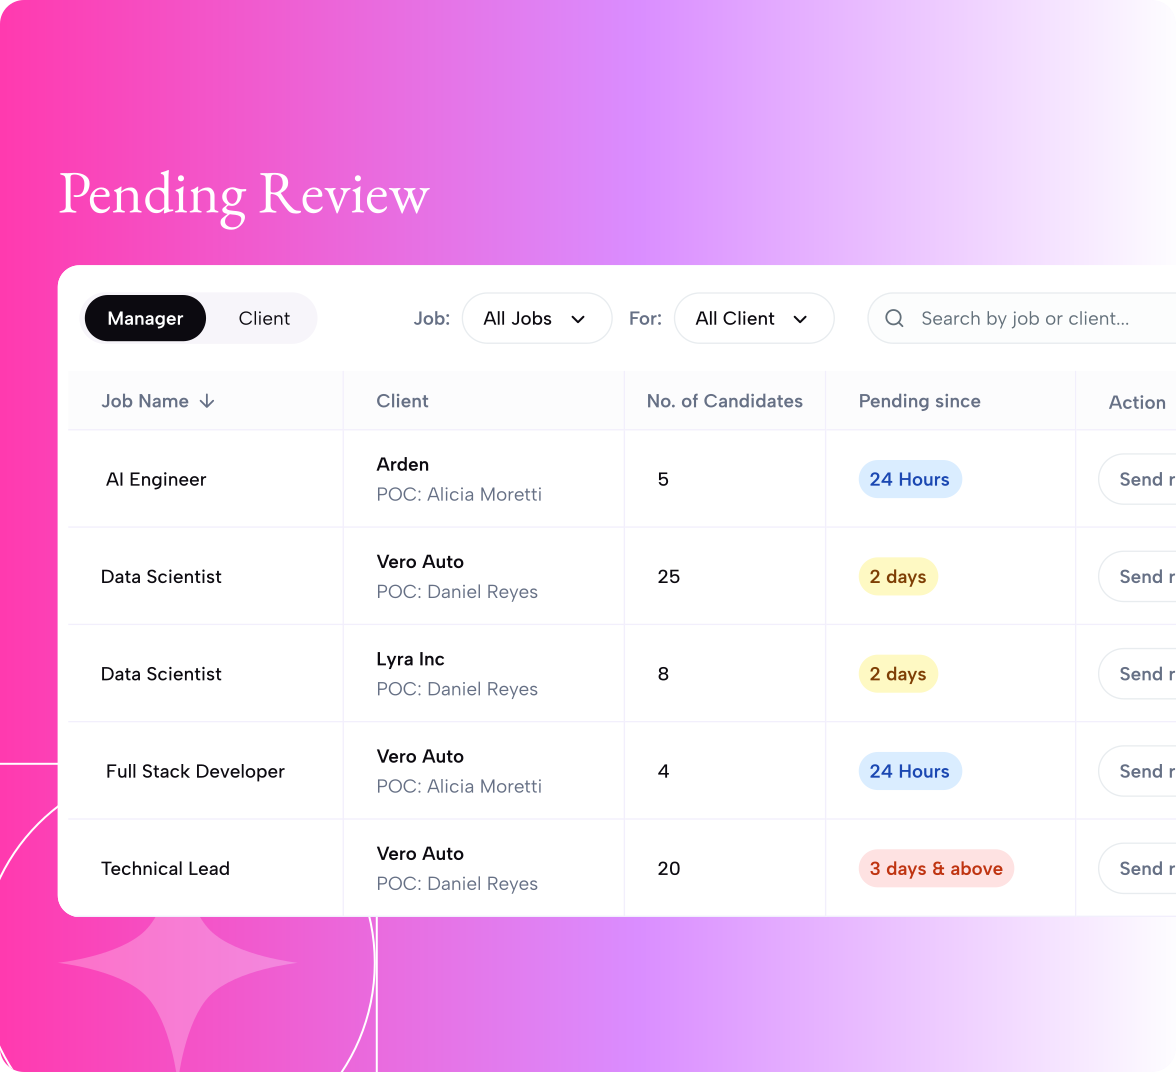
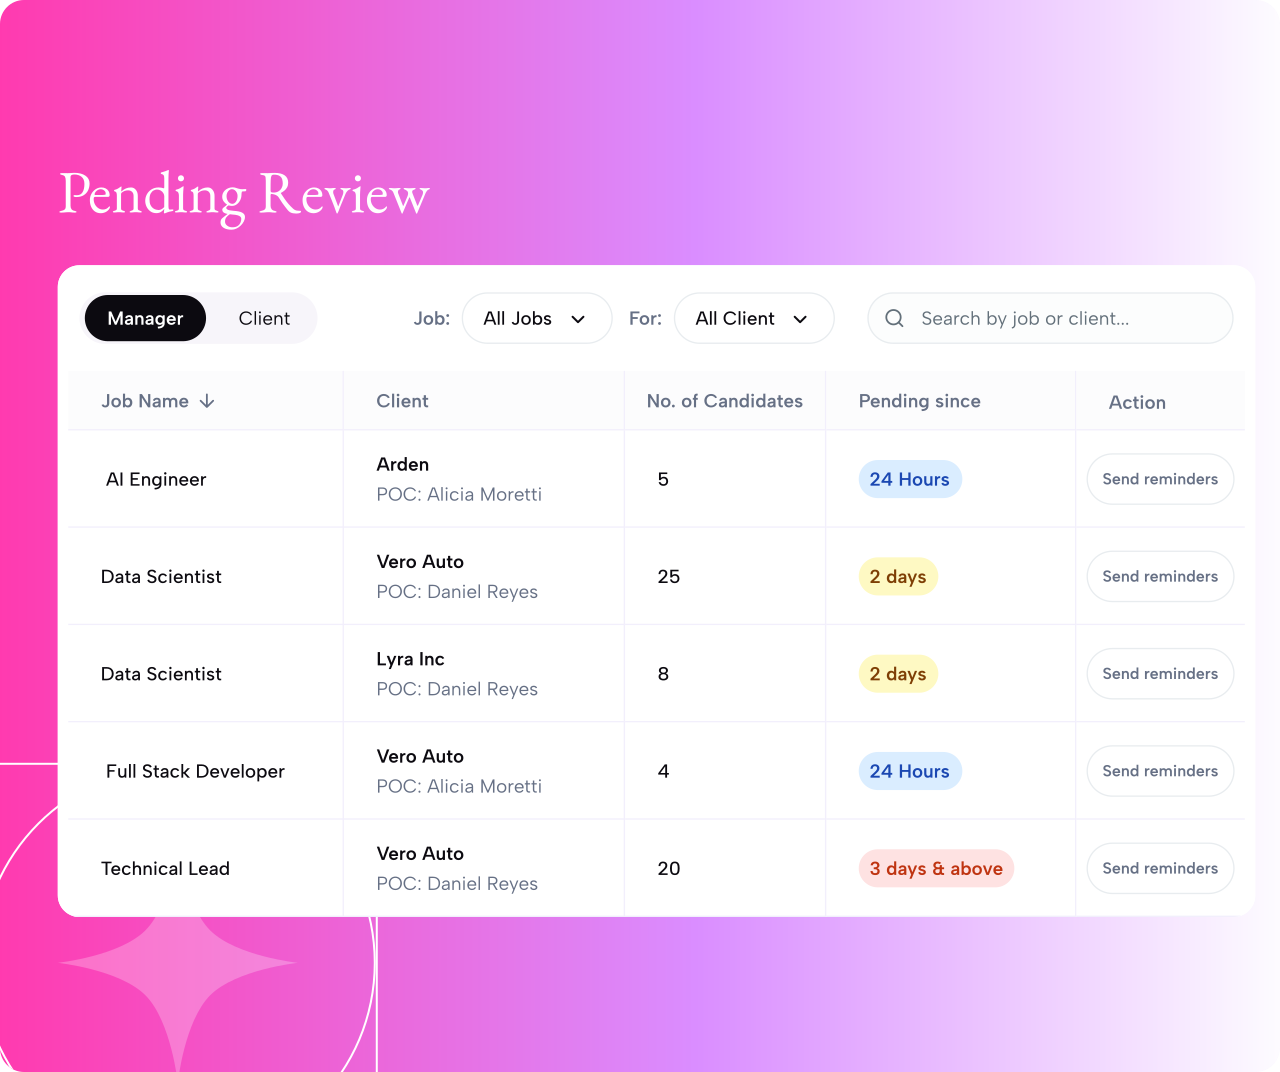
Make the pending-review buttons read "Send reminders" in full
The label was cut to "Send r". The frame stopped at x=588 while the card
runs to 627.6, so the table bled off the right edge and took the Action
column's buttons with it — "Go to j" before the relabel, "Send r" after.

Two things were in the way, and only one of them was the frame.

The frame is 640 now, which shows the whole card and ends the bleed. Height
is unchanged, so the creative goes from 588x536 to 640x536 and renders
590x494 in the same column instead of 590x538 — about 8% smaller, with the
whole table visible rather than three quarters of it.

The label also had to fit the column it sits in, which the frame does not
help with. At the table's own 9.46px "Send reminders" measures 68.64px, and
a pill around it 84.63px, against an Action column 84.25px wide — it never
fitted, whatever the frame did. At 8px the label is 58.04px and the pill
74.04px, leaving 5.1px of column either side. That is the smallest
reduction that fits, found by measuring rather than by trying sizes in the
rasteriser, and it is the button's own style rather than the table's.

The pill's own padding is 8px either side instead of 10.81, and it is
centred in the column rather than left-aligned in it.

`lines` is seeded with the new baseline, because the writer draws from it
and retext keeps whatever y it finds; the string and its width retext
recomputes, and `within` now measures the result against the pill rather
than against the old label's width. The `clipped` waiver those five entries
[…]

diff --git a/src/data/creatives.ts b/src/data/creatives.ts
@@ -201,9 +201,9 @@ export const creatives = {
   "ros-pending-review": {
     "src": "/figma/creatives/ros-pending-review.webp",
     "fallback": "/figma/creatives/ros-pending-review.png",
-    "width": 1176,
+    "width": 1280,
     "height": 1072,
-    "designWidth": 588,
+    "designWidth": 640,
     "designHeight": 536,
     "alt": "A pending-review queue listing each job with its client and how long it has waited"
   },
